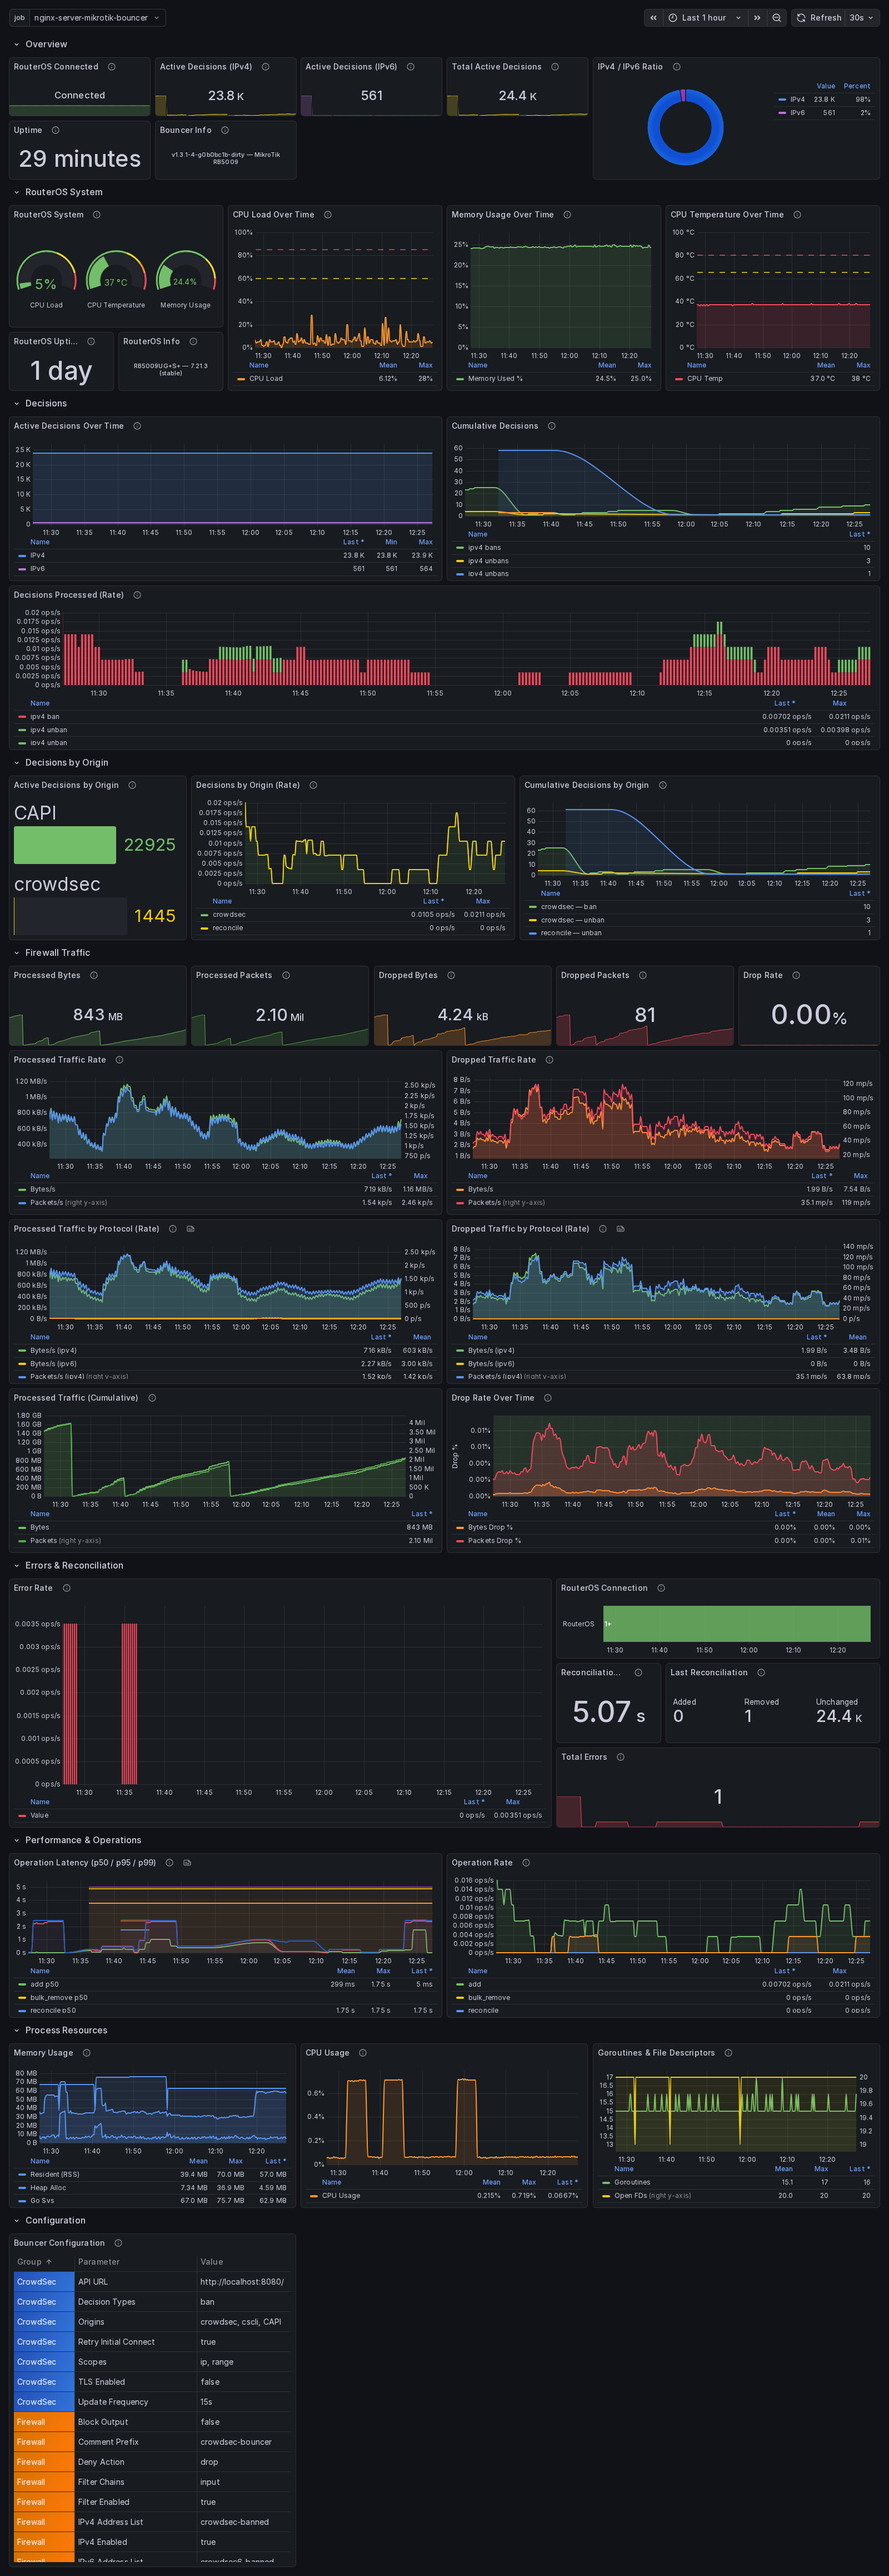
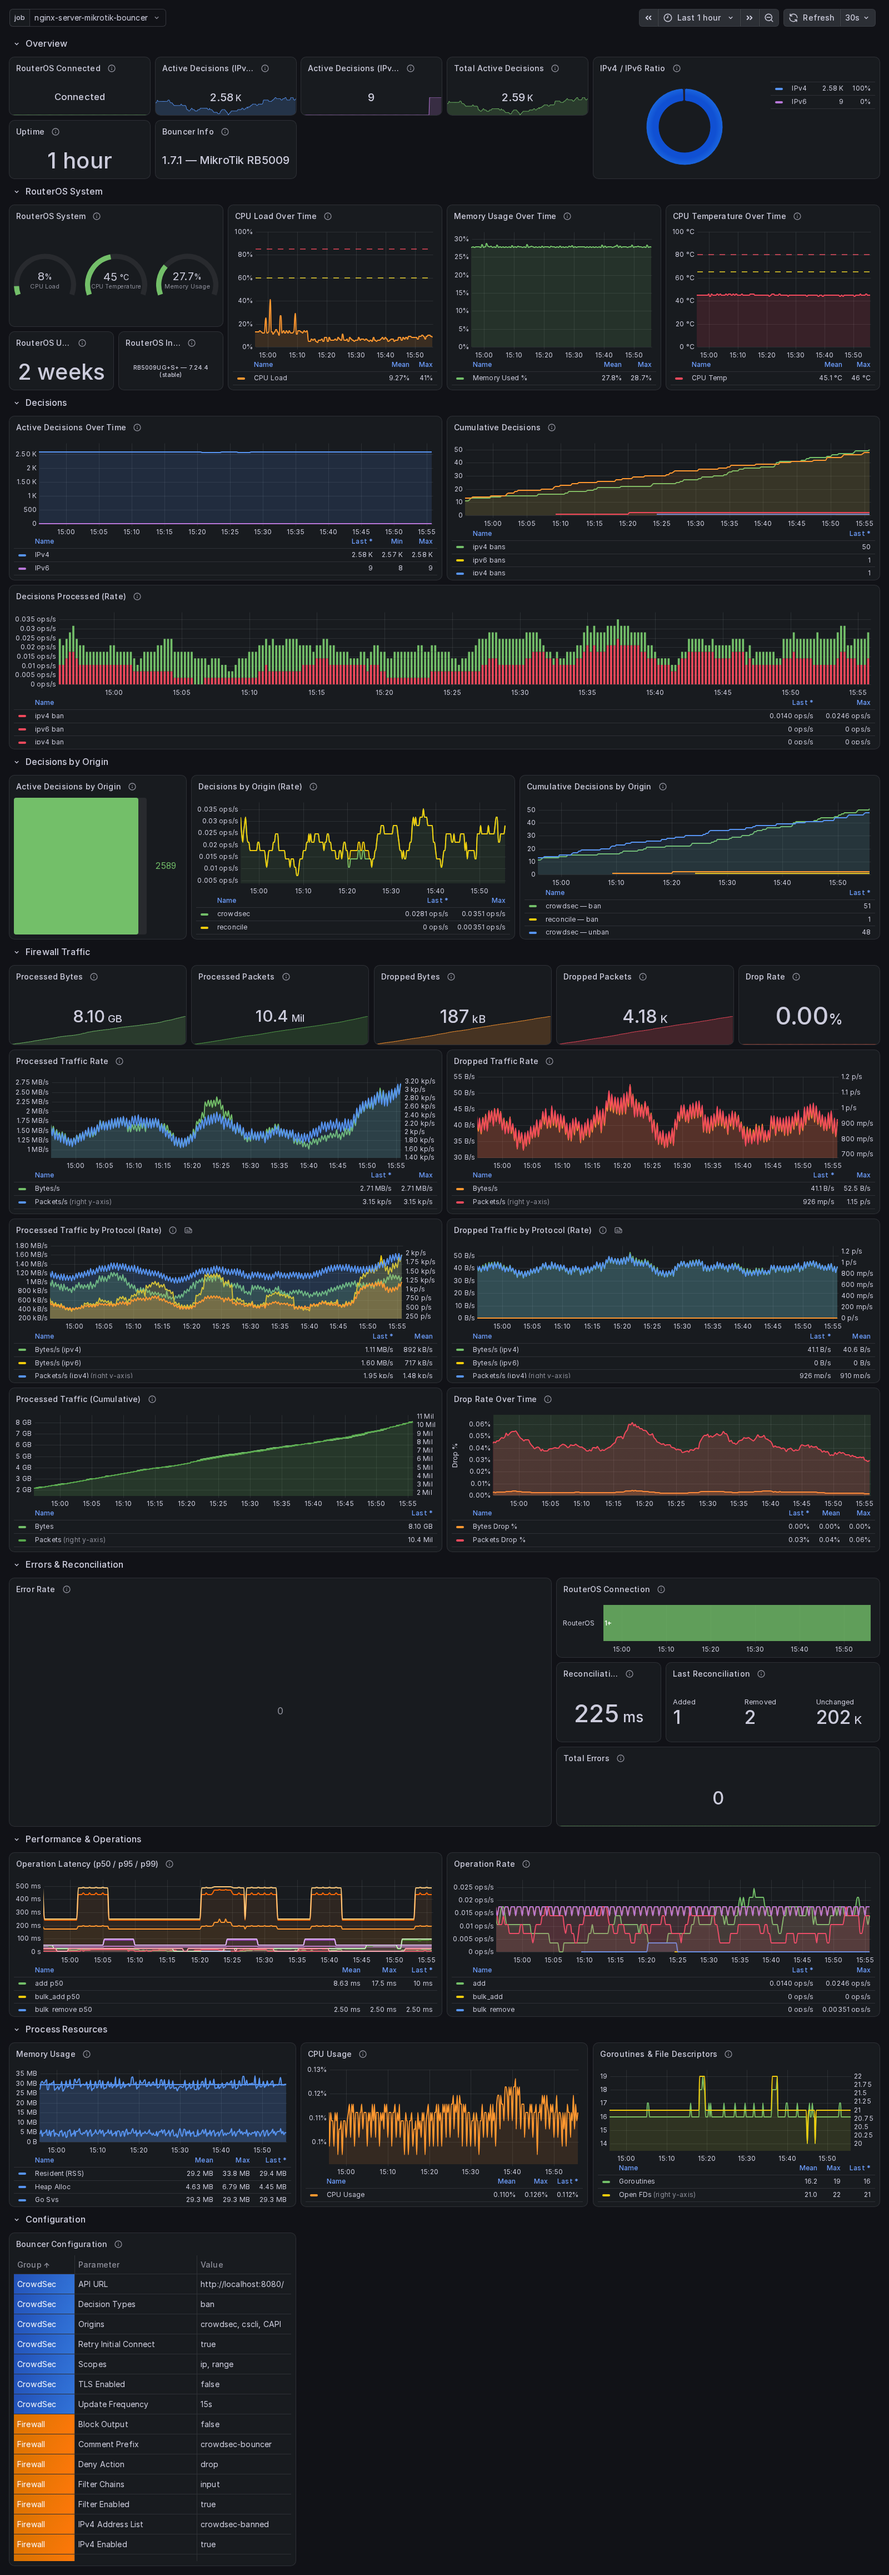
docs: refresh the Grafana dashboard screenshots (#146)
The architecture page's Grafana pair (en/es) dated from February: release 1.3.1 built from a dirty tree, RouterOS 7.21.3. They are now the bundled grafana/dashboard.json, unchanged since #47 and the same 50 panels the live instance runs, on the reference RB5009 with 1.7.1 and RouterOS 7.24.4, last hour, light and dark.

diff --git a/CHANGELOG.md b/CHANGELOG.md
@@ -1,3 +1,9 @@
+## [Unreleased]
+
+### Changed
+
+- **The Grafana dashboard screenshots are current** — the pair on the architecture page dated from February: release 1.3.1 built from a dirty tree, RouterOS 7.21.3 and a 24,400-entry list. They are now the bundled `grafana/dashboard.json` as it runs on the reference RB5009 with 1.7.1 and RouterOS 7.24.4, over the last hour, in both themes
+
 ## [1.7.1] - 2026-10-05
 
 ### Added
